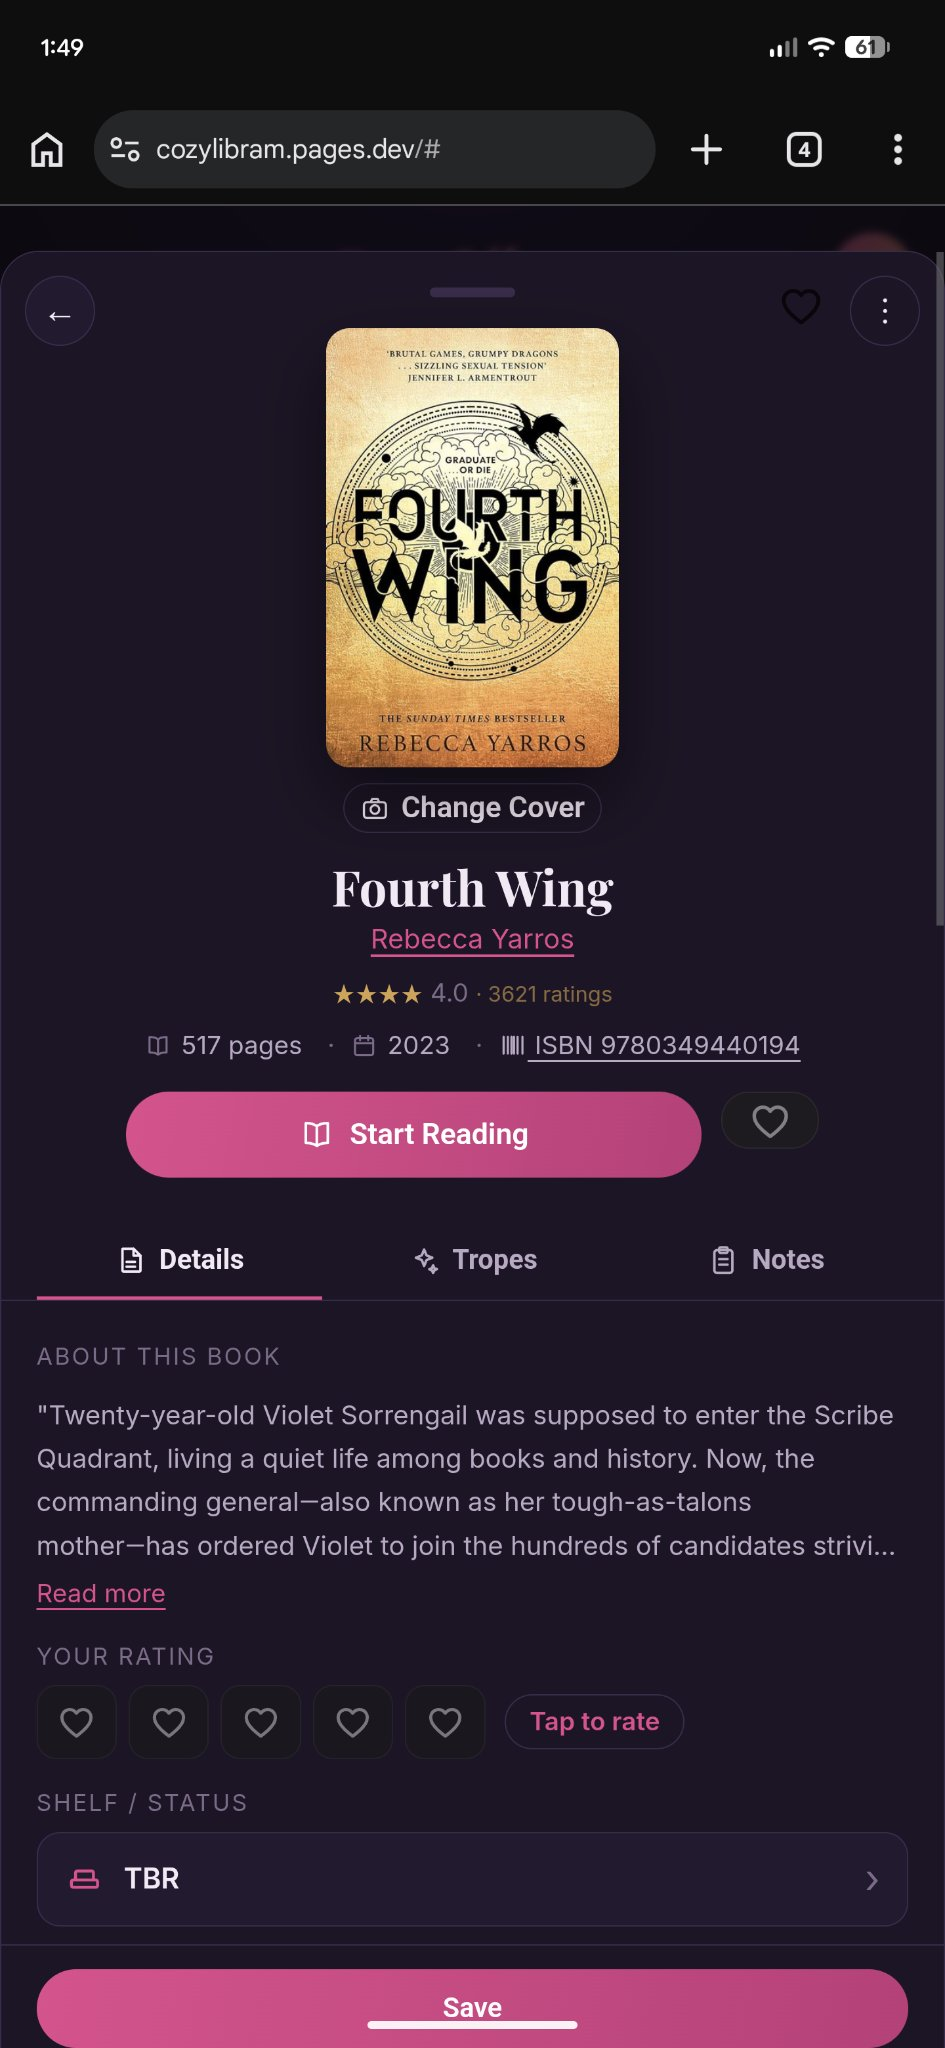
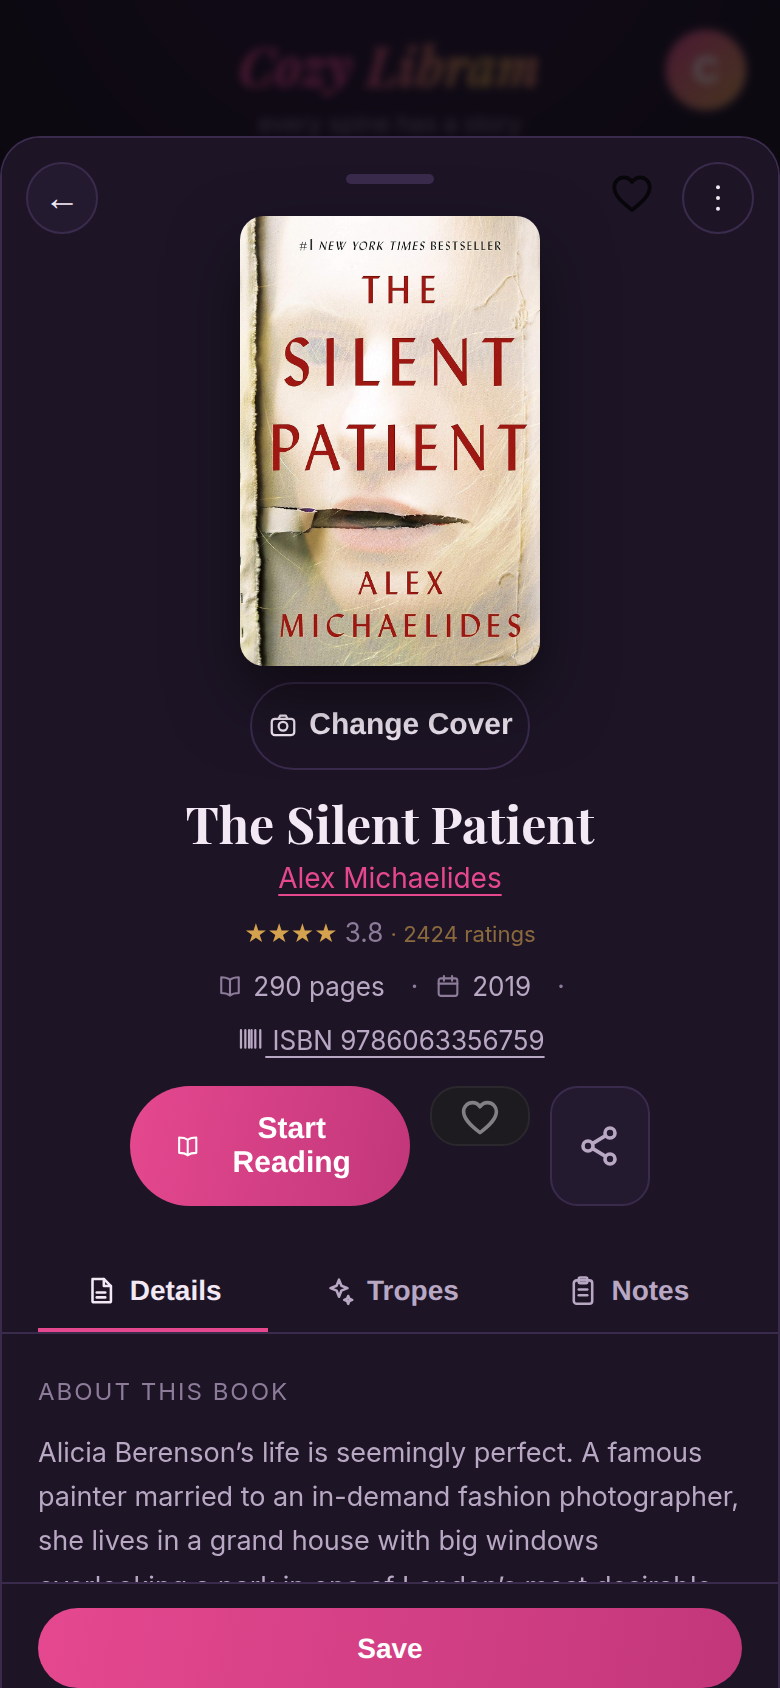
Replace README screenshots with fresh test-account captures; add 2026-10-02 security review
The old screenshots came from the owner's own library. New set is 12 captures
(8 true-mobile 390x844, 4 desktop) taken on throwaway test accounts with no
personal data. Also adds the public-launch security review report.

diff --git a/docs/security-review-2026-10-02.md b/docs/security-review-2026-10-02.md
@@ -1,0 +1,126 @@
+# Security Review — Cozy Libram (`kevsthabest/cozylibram`)
+
+**Date:** 2026-10-02
+**Scope:** Read-only review of `~/workspace/booktok` (app v239) in preparation for making the repository **public**. This is a fresh pass under a new threat model — the 2026-10-01 review assumed a private repo and a 2-user service; this one assumes the code, docs, issue tracker, and API surface are visible to the internet. No code was changed, no credentials touched, nothing committed.
+**Method:** Static review of all client JS, Pages Functions, Supabase SQL, service worker, `server.py`, live header/policy checks, and a full 285-commit git-history secrets sweep. Read-only Supabase checks via `sb-query` (postgres role). No secrets are reproduced in this report.
+
+## Threat model
+
+- **Attacker:** anyone on the internet. They can read every line of code (including RLS policies, API shapes, rate-limit parameters, and the prior security review), call every `/api/*` endpoint, create an account if signup stays open, and file issues/PRs.
+- **Assets:** the owner's paid API quota (OpenRouter/Gemini/Hardcover/Google), the Supabase project (data integrity + storage bill), users' private libraries (wife/family), and the owner's identity/privacy.
+- **Out of scope (owner's standing decisions):** `server.py` is a home-PC dev server, not the production path (Cloudflare Pages is); the owner is not self-hosting. One brief note only (§7).
+
+## Executive summary
+
+The codebase is in genuinely good shape for a public launch. Every finding from the 2026-10-01 review that had a code fix is **verified present and effective** (§2): the two stored-XSS holes are closed, all `/api/*` endpoints require a validated Supabase session, the Hardcover proxy enforces a real query-shape allowlist, the security headers are live, `server.py` blocks its sensitive paths, and the covers bucket has no client write path. The 285-commit history is clean of secrets.
+
+What changes under the public threat model is not the code's correctness but **who gets to be a user**. The one decision that materially moves risk is the signup posture (§6): with open signup, any stranger gets an authenticated session, and several *by-design* affordances for a 2-user app become abuse surfaces — world-readable invite codes (`supabase/schema.sql:201`), first-writer-wins shared caches (`book_meta`, `editions`, `works`), and mass-deletable shared AI trope claims. None of these leak private libraries (RLS holds), but they allow quota burn, cache defacement, and social spam. The report ranks these and lays out open vs. closed vs. hardened-middle postures honestly; the call is the owner's.
+
+The other notable gap is **process, not code**: three live tables (`editions`, `works`, `book_trope_claims`) have RLS policies in production but no SQL in `supabase/` — the auditable record the project promises itself is incomplete, and policy drift is now undetectable.
+
+---
+
+## 1. Prior-review fixes — verified present and effective
+
+| Prior ID | Status | Evidence |
+|---|---|---|
+| SEC-12/SEC-13 (stored XSS, Year-in-Books) | **Fixed, verified** | `js/170-stats.js:617` → `esc(d.longest.title.slice(0, 22))`; `:619` → `esc(d.topAuthor[0].slice(0, 22))` |
+| SEC-02 (`/api/*` behind sign-in, v225) | **Fixed, verified** | `authedUser()` gate on `functions/api/hardcover.js:51`, `trope-infer.js:51`, `read-cover.js:97`, `embed.js:56`, `cache-cover.js:75`, `gbooks/[[path]].js:21`, `trope-models.js:74`. Token validated server-side against Supabase Auth (`functions/_lib/require-user.js`) |
+| SEC-03 (Hardcover query allowlist) | **Fixed, verified** | `hcQueryAllowed()` (`functions/api/hardcover.js:31-46`): anonymous `query {` only, string literals stripped before keyword checks, `__schema`/`__type`/`mutation`/`subscription` rejected, multi-operation rejected, first root field must be in `{search, books, editions, series}`; enforced at `:70-72` before forwarding |
+| SEC-06 (headers) | **Fixed, verified live** | `curl -sI https://cozylibram.pages.dev/` returns `Strict-Transport-Security`, `X-Frame-Options: SAMEORIGIN`, `Content-Security-Policy: frame-ancestors 'self'`, `X-Content-Type-Options: nosniff`, `Referrer-Policy` |
+| SEC-01 (server.py serves secrets) | **Fixed, verified** | `_path_blocked()` (`server.py:303-310`) blocks `/server-config.json`, `/.git` + `/.git/` prefix, `*.pem`/`*.key`, `.env*` in both `do_GET` and `do_HEAD`, returning 404 (not 403) |
+| SEC-09 (covers bucket RLS) | **Resolved, verified live** | RLS enabled on `storage.objects`; all 4 storage policies are `bucket_id='avatars'`-scoped; **no** policy grants INSERT/UPDATE/DELETE on `covers` → default-deny. Bucket is `public=true` (read-only CDN behavior, intended); writes only via service-role proxy |
+| SEC-11 ("her dark little library") | **Fixed, verified** | Zero matches in `index.html`, `manifest.json`, `js/` |
+| SEC-15 (analytics `kind` enum) | **Fixed, verified** | `js/065-analytics.js:88-90` — `kind` now in `PROP_VALUES`; no new `track()` calls since v222 |
+| book_meta v194 attribution | **Live, verified** | `book_meta_guard_trg` present on INSERT+UPDATE; policies `read meta`/`write meta`/`refresh meta` match `supabase/schema.sql:36-60` |
+
+## 2. Secrets sweep — clean
+
+Swept all 285 commits (1793 blobs) for: `sk-live/proj/test-*`, `sbp_*`, `AIza*`, `ghp_*`, `xox*`, JWT-shaped strings, email addresses, `service_role` values, keystore extensions.
+- **No keys, tokens, or JWTs anywhere in history or working tree.** Only hit: the fake fixture email `r@x.com` in `.test/auth.test.js:27`.
+- No `.jks`/keystore files, no `server-config.json` in the tree; `server-config.json` is gitignored (`.gitignore:4`) and `scripts/downscale-covers.py:92-99` loads the service key from that gitignored local file at runtime — owner tooling, nothing committed.
+- `scripts/` (backfill-covers, backfill-embeddings, downscale-covers, reclassify-tropes) contain the live Supabase **project ref** (`dvhimjkrroxuatthiizc`) — not a secret, but it identifies the backing project to the world (see PUB-06).
+- The old review doc (`docs/security-review-2026-10-01.md`) will become public with the repo. It describes past vulnerabilities (now fixed) and names the attack surface explicitly — normal for open source, but the owner should know it's in the published docs.
+
+## 3. New findings (public-launch threat model)
+
+### PUB-01 [High] Open signup turns 2-user affordances into stranger abuse surfaces
+`js/090-sync.js:356-364` (`cloudSignUp` — no invite gate, no allowlist). With the repo public, the signup path is one click away for anyone, and an authenticated stranger gets:
+- **Invite-code enumeration** — `supabase/schema.sql:201` (`read codes`: `using (auth.role() = 'authenticated')`) lets any signed-in user list *every* invite code. Combined with open signup, a stranger can spam friend requests to all users; on acceptance they read shared shelves (bounded by `share_library`/`hidden_shelves`, `supabase/schema.sql:238-258`).
+- **Shared-cache writes** — `book_meta` "write meta" (`schema.sql:51-54`) is first-writer-wins per ISBN (prior SEC-05, still live by design); `editions`/`works` "user insert" policies require only non-empty `isbn`/`title_norm` (verified live); `book_trope_claims` lets any authenticated user DELETE shared AI claims (`claims: user replace ai regenerable` — verified live, no per-user scoping).
+- **Quota burn** — `/api/*` now requires auth, but per-IP rate limits are per-isolate (`functions/_lib/rate-limit.js`); a stranger with N accounts × M IPs multiplies the allowance. No CAPTCHA/bot protection on Supabase Auth observed.
+
+Private libraries themselves hold: `books`/`deleted_books`/`profiles` are strict `auth.uid() = user_id`, and the circle read paths were re-verified live. Impact is integrity/availability/cost, not confidentiality of shelves. **Mitigations are a posture choice — see §6.**
+
+### PUB-02 [High] Auditable SQL record is incomplete — 3 live tables have no repo SQL
+`editions`, `works`, and `book_trope_claims` exist in production with RLS enabled and active policies (listed live), but have **no** `create table` / policy statements anywhere in `supabase/` (only `schema.sql`, `tropes.sql`, `analytics.sql`, `realtime.sql`, `migrations/v194_book_meta_ownership.sql` exist). The project's own rule ("keep supabase/*.sql as the auditable record", skill operating rule #6) is violated, and with a public repo + public issue tracker, policy drift on these tables is now undetectable by reviewers. The live policies were inspected for this review (user-insert checks are minimal but sane; claims DELETE is broad — see PUB-03) and RLS is on, so this is a process/control gap rather than a live hole — but it should be closed before inviting external scrutiny.
+
+### PUB-03 [Medium] Any authenticated user can mass-delete shared AI trope claims
+Live policy `claims: user replace ai regenerable` on `book_trope_claims` (DELETE, `authenticated`): `USING (source_type='ai' AND (status='candidate' OR (status='confirmed' AND evidence->>'auto_confirmed'='true')))`. No per-user scoping — a single stranger account can wipe the shared trope corpus. Regenerable via re-inference (nuisance + the owner's OpenRouter bill, not data loss), but under open signup this is a one-click griefing primitive. Consider scoping deletes to claims the deleter's account generated, or admin-only delete with user-triggered re-inference as the path.
+
+### PUB-04 [Medium] `editions`/`works` inserts are minimally constrained
+Verified live: `editions: user insert` CHECK is only `(work_id IS NOT NULL AND isbn IS NOT NULL AND isbn <> '')`; `works: user insert` CHECK is only `(title_norm IS NOT NULL AND title_norm <> '')`. Same defacement class as `book_meta` (prior SEC-05): a stranger can squat works/editions with bogus metadata every other user then reads. Acceptable for 2 users; questionable with open signup.
+
+### PUB-05 [Medium] Public code removes the obscurity layer — endpoint/API shape enumeration is free
+With the repo public, attackers get the `/api/*` route list, exact rate-limit parameters, the Hardcover query allowlist (and thus its precise bypass constraints), RLS policy logic, bucket names, and the analytics event catalog without probing. The defenses are real (auth gates, allowlists, RLS), but review them as if the attacker has read them — because they have. Concrete consequence: the `hcQueryAllowed` regexes (`functions/api/hardcover.js:31-46`) should be treated as the *entire* security boundary for the Hardcover token (they are — verified sound: fragment definitions can't smuggle operations, block-string/comment smuggling only causes false-positive rejects, not bypasses).
+
+### PUB-06 [Medium] `scripts/` identify the live Supabase project and assume owner context
+`scripts/backfill-covers.js:25`, `backfill-embeddings.js:27`, `downscale-covers.py:34`, `reclassify-tropes.js:27` hardcode the production project ref. Not secrets — but combined with the public-by-design anon key (served in `/config.js` to anyone), they hand the world the exact project to poke at. For a public repo, move the ref to an env var / documented placeholder and note these scripts are owner-operational.
+
+### PUB-07 [Low] Unescaped `data-pid` in trope proposal rows (SEC-14 class)
+`js/195-coven.js:489,491` — `data-pid="' + p.id + '"` interpolates the proposal id raw. Not exploitable today (ids are server-minted UUIDs), but `esc(p.id)` costs nothing and the file already escapes `p.name`/`p.description` at `:483-484`. Same normalization applies to the `b.id` interpolations flagged in prior SEC-14 (still present, still unexploitable — `uid()` charset is `[a-z0-9]`).
+
+### PUB-08 [Low] README misstates the scanner dependency; vendored Quagga is unmaintained
+`README.md` advertises "Quagga2 fallback" but `js/vendor/quagga.min.js` is QuaggaJS **0.12.1** (archived upstream ~2021; `js/vendor/SOURCES.txt`). Prior review confirmed no applicable CVEs (the "quagga" CVE hits are the unrelated BGP daemon; a JS image parser is memory-safe by construction). For a public repo this is hygiene + a doc inaccuracy: either vendor `@ericblade/quagga2` or fix the README.
+
+### PUB-09 [Low] `specs/v216-canonical-covers.md` is tracked despite the no-specs convention
+`git ls-files specs` shows one tracked spec file. Harmless content, but the workspace rule is "never stage `specs/`" — decide whether specs belong in the public repo at all.
+
+### PUB-10 [Info] Supabase Auth dashboard settings need a pre-launch check (not verifiable from repo)
+Confirm in the Supabase dashboard before going public: (a) "Allow new users to sign up" matches the intended posture (§6); (b) email confirmation required (else disposable-email account farming); (c) Site URL + redirect allowlist include only the production origin (password-reset and Google OAuth `redirectTo` values derive from `location`, and Supabase enforces the allowlist — verify it's tight); (d) consider enabling CAPTCHA (Turnstile/hCaptcha) on auth endpoints if signup stays open.
+
+### PUB-11 [Info] Google Books attribution is a ToS requirement for public launch
+Per the owner's 2026-10-02 ToS research (now in MEMORY.md): Google Books ToS require "Powered by Google" attribution adjacent to results plus prominent links to Google Books pages, and forbid charging users without Google's written permission (collides with any future paid tier). The attribution/links are not yet in the app. Not a vulnerability — but a public launch without it is a compliance gap, and the charging restriction affects the open-core plan.
+
+### PUB-12 [Info] `server.py` still binds `0.0.0.0` with no LAN gating
+Owner's explicit v53 decision; he is not self-hosting and production is Cloudflare Pages. The sensitive-path blocklist (§1, SEC-01) is in place. No action — noted once per the brief.
+
+## 4. XSS re-sweep (v223–v239 delta)
+
+The prior review covered the tree through v222 exhaustively. New/changed render paths since then were re-checked:
+- **v236 trope autocomplete** (`js/160-roulette.js`): suggestion names via `esc(s.name)`; counts are integers. Clean.
+- **v239 manual series editor** (`js/150-modal-discovery.js:seriesEditHTML`): `esc()` on name, position, and every datalist option. Clean. (Note: `seriesManual` flag correctly blocks enrichment overwrite — `js/070-hardcover.js:114-121`.)
+- **v234 Recommended banner, v235 axis labels, v230 taglines**: static strings or internal constants (`RATING_AXES`, `TAGLINES`), escaped at render. Clean.
+- **v224 remove-friend sheet** (`js/195-coven.js:519-546`): `esc(friendName)`; friend id flows to `circleRemove` (API call, not HTML). Clean.
+- **Trope proposal rows** (`js/195-coven.js:480-493`): `esc()` on name/description/genre labels; only `data-pid` raw (PUB-07).
+- No new `eval`/`new Function`/`postMessage`/`javascript:`/open-redirect sinks in the delta. `toast()` still uses `textContent`.
+
+## 5. Auth flows (re-verified)
+
+Standard Supabase Auth, unchanged since the prior review: email/password + Google OAuth (PKCE `exchangeCodeForSession`, `js/090-sync.js:414`), mandatory sign-in gate (`js/095-gate.js`, `js/200-boot.js`), password reset via Supabase with non-enumerating UI copy (`js/095-gate.js:140-155` — always "Reset link sent"). Signup error text surfaces `error.message` through `toast()` (textContent — no XSS; Supabase's obfuscated signup responses avoid account enumeration **only if** email confirmation is enabled — see PUB-10). Session JWT is sent as `Authorization: Bearer` to `/api/*` and validated server-side per request (`functions/_lib/require-user.js`) — never trusted client-side.
+
+## 6. The signup question — open vs. closed vs. hardened (assess, not decide)
+
+The owner has not decided whether signup stays open. Both postures laid out honestly:
+
+**A. Open signup (status quo).** *Risks:* PUB-01 in full — any stranger gets an authenticated session: invite-code enumeration + friend-request spam, shared-cache defacement (`book_meta` first-writer-wins, `editions`/`works` inserts, trope-claim deletes), multiplied `/api/*` quota burn (per-account + per-IP rate limits, no CAPTCHA observed), and a public issue tracker that social-engineers trust ("I'm a user, help me debug" → support-load + phishing surface). Private libraries stay private (RLS verified). *Benefits:* zero friction for family/future users; no owner bottleneck; matches the current code.
+
+**B. Closed signup (Supabase "Allow new users to sign up" OFF, owner invites accounts).** *Risks:* collapse to near-zero — every authenticated user is known; PUB-01/03/04 become non-issues; quota burn requires a compromised known account. *Costs:* the owner becomes the account desk (dashboard invites per user); any future legitimate user waits on him; "public launch" becomes repo-public/service-private, which may confuse contributors filing issues they can't reproduce without an account.
+
+**C. Hardened middle (recommended if the service is meant to grow).** Keep signup open, but: enable email confirmation + CAPTCHA on auth (PUB-10); scope `circle_invites` "read codes" to friends/pending-handshakes instead of all authenticated users; add a per-user rate-limit trigger on `book_meta`/`editions`/`works` inserts; scope trope-claim DELETE to admin or self-generated claims (PUB-03); keep the admin dashboard as the abuse monitor it already is. Effort is small; it preserves zero-friction signup while removing the one-click griefing primitives.
+
+## 7. Pre-public checklist (no code changed by this review)
+
+1. **Decide the signup posture** (§6) — the single highest-leverage decision.
+2. **Backfill `supabase/` SQL** for `editions`, `works`, `book_trope_claims` (PUB-02) — export live definitions, review, commit.
+3. **Dashboard check** (PUB-10): signup toggle, email confirmation, Site URL/redirect allowlist, CAPTCHA.
+4. **Scope `circle_invites` reads** and trope-claim deletes (PUB-01/03) if signup stays open.
+5. **Google Books attribution + links** (PUB-11) for ToS compliance.
+6. **Replace the `docs/screenshots/` set** — current shots are the owner's live library (the parent agent's screenshot task covers this).
+7. **Decide on `preview/`** (11 old mockups) and `specs/` (PUB-09) — keep, refresh, or drop from the public tree.
+8. **Fix the README's "Quagga2" claim** or vendor quagga2 (PUB-08).
+9. **Know that `docs/security-review-2026-10-01.md` goes public** with the repo — it narrates the (fixed) attack surface in detail.
+
+## 8. What's solid (keep doing)
+
+Per-user RLS is strict and re-verified live on all 18 tables; circle/social reads correctly honor `share_library` + `hidden_shelves`; the `/api/*` auth gates + Hardcover query allowlist + SSRF host allowlists are genuinely well built; `esc()` discipline holds across the whole client including the v223–v239 delta; analytics remains enum-only with the `kind` gap closed; the service worker keeps `/config.js` and `/api/*` out of cache; secrets stay server-side and out of git across the full rewritten history.
